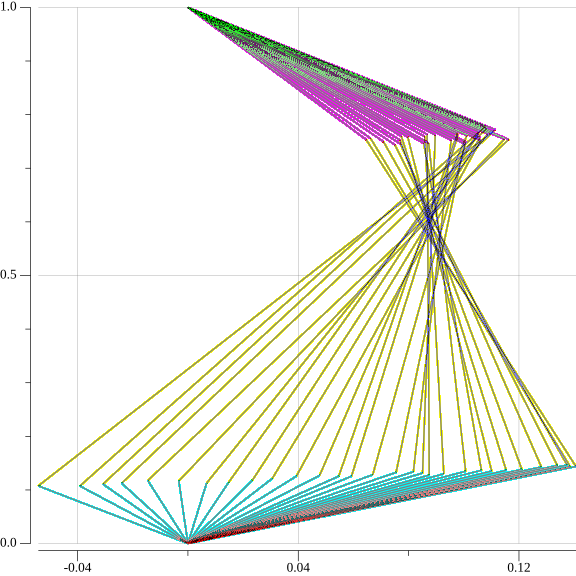
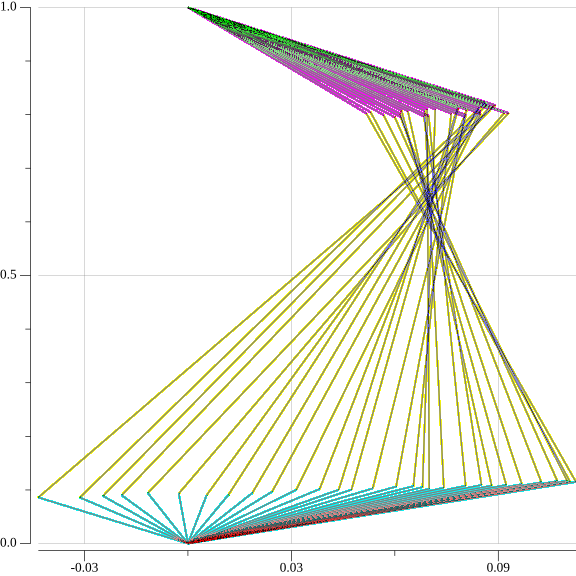
aggregate ks

diff --git a/vtrack/regress.go b/vtrack/regress.go
@@ -12,6 +12,8 @@ import (
 	"gonum.org/v1/plot/vg"
 )
 
+// TODO: draw frames
+
 func NewModel(tj1, tj2 Trajectory, data ...*mat.VecDense) *Model {
 	start := MaxInt(tj1.start, tj2.start)
 	end := MinInt(tj1.end, tj2.end)
@@ -38,10 +40,10 @@ func NewModel(tj1, tj2 Trajectory, data ...*mat.VecDense) *Model {
 	if len(data) > 0 {
 		model.params = data[0]
 	} else {
-		model.params = mat.NewVecDense(6, []float64{
+		model.params = mat.NewVecDense(5, []float64{
 			-0.1, -0.1, // theta
 			0.7 * math.Pi, 1.2 * math.Pi,
-			10, 10,
+			10, // k
 		})
 	}
 	model.nparams = model.params.Len()
@@ -60,7 +62,6 @@ type Model struct {
 }
 
 func (model Model) PrintParams() {
-	fmt.Printf("loss: %.5f\t", model.GetLinesDistance(*model.params))
 	fmt.Printf("theta1: %.2f pi, theta2: %.2f pi\t",
 		model.params.At(0, 0)/math.Pi,
 		model.params.At(1, 0)/math.Pi,
@@ -69,9 +70,8 @@ func (model Model) PrintParams() {
 		model.params.At(2, 0)/math.Pi,
 		model.params.At(3, 0)/math.Pi,
 	)
-	fmt.Printf("k1: %.2f, k2: %.2f\n",
+	fmt.Printf("k: %.2f\n",
 		model.params.At(4, 0),
-		model.params.At(5, 0),
 	)
 }
 
@@ -111,7 +111,7 @@ func (model *Model) GetDiff(i int, dp float64) float64 {
 func (model *Model) project(z0 float64, params *mat.VecDense) [][]float64 {
 	theta1, theta2 := params.At(0, 0), params.At(1, 0)
 	phi1, phi2 := params.At(2, 0), params.At(3, 0)
-	k1, k2 := params.At(4, 0), params.At(5, 0)
+	k := params.At(4, 0)
 
 	n1 := mat.NewVecDense(3, []float64{
 		math.Cos(phi1) * math.Cos(theta1),
@@ -151,13 +151,13 @@ func (model *Model) project(z0 float64, params *mat.VecDense) [][]float64 {
 		d1 := mat.NewVecDense(3, nil)
 		d1.AddScaledVec(d1, snap.p1, a1)
 		d1.AddScaledVec(d1, snap.q1, b1)
-		d1.AddScaledVec(n1, k1, d1)
+		d1.AddScaledVec(n1, k, d1)
 		t1 := (z0 - model.c1.At(2, 0)) / d1.At(2, 0)
 
 		d2 := mat.NewVecDense(3, nil)
 		d2.AddScaledVec(d2, snap.p2, a2)
 		d2.AddScaledVec(d2, snap.q2, b2)
-		d2.AddScaledVec(n2, k2, d2)
+		d2.AddScaledVec(n2, k, d2)
 		t2 := (z0 - model.c2.At(2, 0)) / d2.At(2, 0)
 
 		// x1, y1, x2, y2
@@ -217,86 +217,10 @@ func (model Model) GetPointsDistance(z0 float64, params *mat.VecDense) float64 {
 	sum := .0
 	for _, p := range points {
 		x1, y1, x2, y2 := p[0], p[1], p[2], p[3]
-		sum += math.Sqrt((x1-x2)*(x1-x2) + (y1-y2)*(y1-y2))
+		sum += (x1-x2)*(x1-x2) + (y1-y2)*(y1-y2)
 	}
-	return sum
-}
-
-func (model Model) GetLinesDistance(params mat.VecDense) float64 {
-	theta1, theta2 := params.At(0, 0), params.At(1, 0)
-	phi1, phi2 := params.At(2, 0), params.At(3, 0)
-	k1, k2 := params.At(4, 0), params.At(5, 0)
-
-	n1 := mat.NewVecDense(3, []float64{
-		math.Cos(phi1) * math.Cos(theta1),
-		math.Sin(phi1) * math.Cos(theta1),
-		math.Sin(theta1),
-	})
-	n2 := mat.NewVecDense(3, []float64{
-		math.Cos(phi2) * math.Cos(theta2),
-		math.Sin(phi2) * math.Cos(theta2),
-		math.Sin(theta2),
-	})
-	a1 := mat.NewVecDense(3, []float64{
-		-math.Sin(phi1),
-		math.Cos(phi1),
-		0,
-	})
-	a2 := mat.NewVecDense(3, []float64{
-		-math.Sin(phi2),
-		math.Cos(phi2),
-		0,
-	})
-	b1 := mat.NewVecDense(3, []float64{
-		-math.Cos(phi1) * math.Sin(theta1),
-		-math.Sin(phi1) * math.Sin(theta1),
-		math.Cos(theta1),
-	})
-	b2 := mat.NewVecDense(3, []float64{
-		-math.Cos(phi2) * math.Sin(theta2),
-		-math.Sin(phi2) * math.Sin(theta2),
-		math.Cos(theta2),
-	})
-
-	loss := .0
-
-	for i := 0; i < model.ndata; i++ {
-		snap := model.data[i]
-		d1 := mat.NewVecDense(3, nil)
-		d1.AddScaledVec(d1, snap.p1, a1)
-		d1.AddScaledVec(d1, snap.q1, b1)
-		d1.AddScaledVec(n1, k1, d1)
-
-		d2 := mat.NewVecDense(3, nil)
-		d2.AddScaledVec(d2, snap.p2, a2)
-		d2.AddScaledVec(d2, snap.q2, b2)
-		d2.AddScaledVec(n2, k2, d2)
-
-		mata := mat.NewDense(2, 2, []float64{
-			mat.Dot(d1, d1), -mat.Dot(d1, d2),
-			mat.Dot(d1, d2), -mat.Dot(d2, d2),
-		})
-		c21 := mat.NewVecDense(3, nil)
-		c21.SubVec(model.c2, model.c1)
-		matb := mat.NewVecDense(2, []float64{
-			mat.Dot(c21, d1),
-			mat.Dot(c21, d2),
-		})
-		t := mat.NewVecDense(2, nil)
-		matainv := mat.NewDense(2, 2, nil)
-		error := matainv.Inverse(mata)
-		if error != nil {
-			log.Fatal("Inversed matrix does not exist")
-		}
-		t.MulVec(matainv, matb)
-		l1 := mat.NewVecDense(3, nil)
-		l1.AddScaledVec(model.c1, t.At(0, 0), d1)
-		l2 := mat.NewVecDense(3, nil)
-		l2.AddScaledVec(model.c2, t.At(1, 0), d2)
-		l1.SubVec(l1, l2)
-		loss += mat.Dot(l1, l1)
-	}
-	return loss
+	k := params.At(4, 0)
+	return sum / (k * k)
 }
 
 func MaxInt(nums ...int64) int64 {
@@ -317,44 +241,4 @@ func MinInt(nums ...int64) int64 {
 		}
 	}
 	return ret
-}
-
-func (model Model) GetMinL(params mat.VecDense) float64 {
-	theta1, theta2 := params.At(0, 0), params.At(1, 0)
-	phi1, phi2 := params.At(2, 0), params.At(3, 0)
-	n1 := mat.NewVecDense(3, []float64{
-		math.Cos(phi1) * math.Cos(theta1),
-		math.Sin(phi1) * math.Cos(theta1),
-		math.Sin(theta1),
-	})
-	n2 := mat.NewVecDense(3, []float64{
-		math.Cos(phi2) * math.Cos(theta2),
-		math.Sin(phi2) * math.Cos(theta2),
-		math.Sin(theta2),
-	})
-
-	d1, d2 := n1, n2
-	mata := mat.NewDense(2, 2, []float64{
-		mat.Dot(d1, d1), -mat.Dot(d1, d2),
-		mat.Dot(d1, d2), -mat.Dot(d2, d2),
-	})
-	c21 := mat.NewVecDense(3, nil)
-	c21.SubVec(model.c2, model.c1)
-	matb := mat.NewVecDense(2, []float64{
-		mat.Dot(c21, d1),
-		mat.Dot(c21, d2),
-	})
-	t := mat.NewVecDense(2, nil)
-	matainv := mat.NewDense(2, 2, nil)
-	error := matainv.Inverse(mata)
-	if error != nil {
-		log.Fatal("Inversed matrix does not exist")
-	}
-	t.MulVec(matainv, matb)
-	l1 := mat.NewVecDense(3, nil)
-	l1.AddScaledVec(model.c1, t.At(0, 0), d1)
-	l2 := mat.NewVecDense(3, nil)
-	l2.AddScaledVec(model.c2, t.At(1, 0), d2)
-	l1.SubVec(l1, l2)
-	return mat.Dot(l1, l1)
 }

diff --git a/main.go b/main.go
@@ -18,9 +18,9 @@ func main() {
 	ar1 := getAnnotationResults(objName1)
 	ar2 := getAnnotationResults(objName2)
 	model := vtrack.NewModel(ar1.At(0), ar2.At(10))
-	var z0 float64 = -0.1
+	var z0 float64 = -0.08
 	model.Plot2D(z0, outDir, "before")
-	model.BatchGradientDecent(1e-2, 1e-1, 100000)
+	model.BatchGradientDecent(1e-2, 1e-1, 10000)
 	model.Plot2D(z0, outDir, "after")
 	model.PrintParams()
 }
